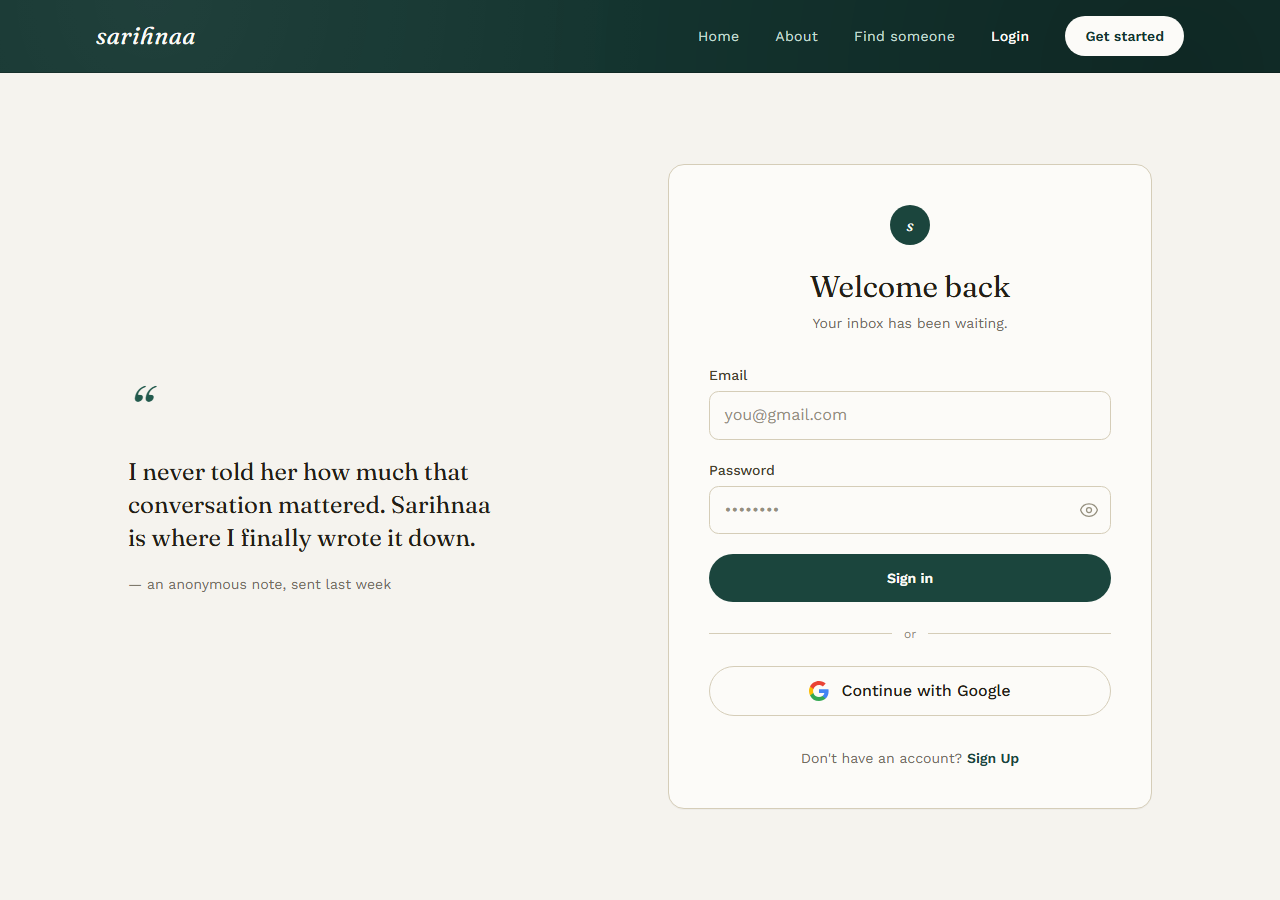
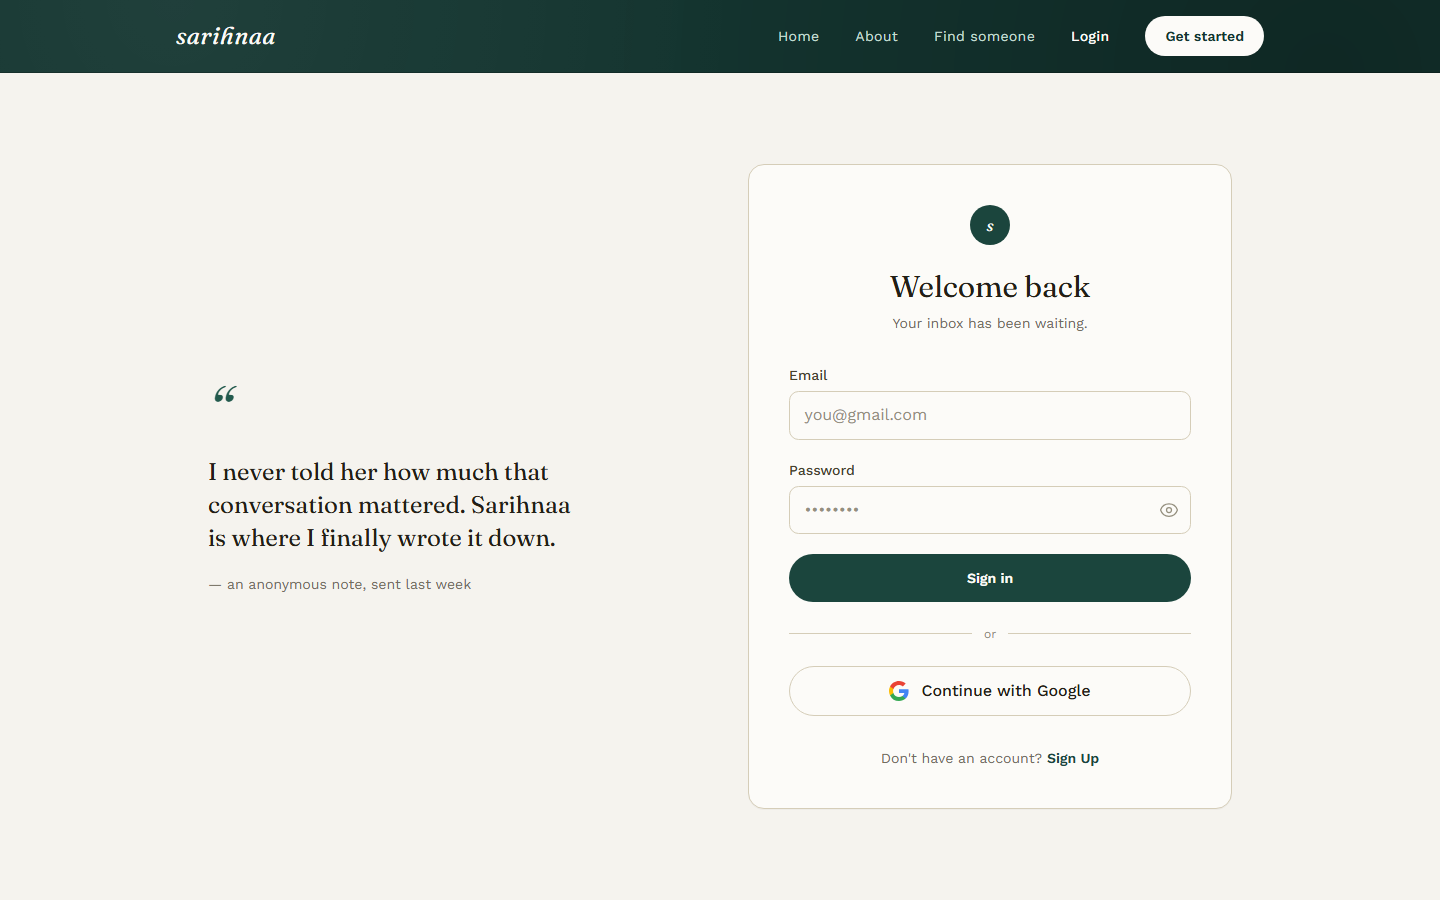
Update README screenshots for the redesigned home page
The home/login screenshots were still from before the LTR fix and the
home-page content pass; add a features.png showing the new bento grid.

diff --git a/README.md b/README.md
@@ -9,6 +9,9 @@ real-time notifications when a new one arrives.
 <p align="center">
   <img src="docs/screenshots/home.png" alt="sarihnaa landing page" width="100%" />
 </p>
+<p align="center">
+  <img src="docs/screenshots/features.png" alt="Feature grid on the landing page" width="100%" />
+</p>
 
 <table>
   <tr>